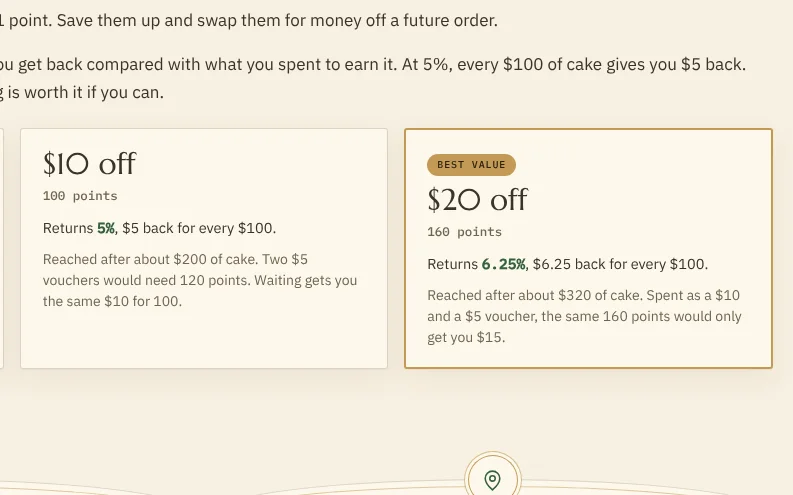
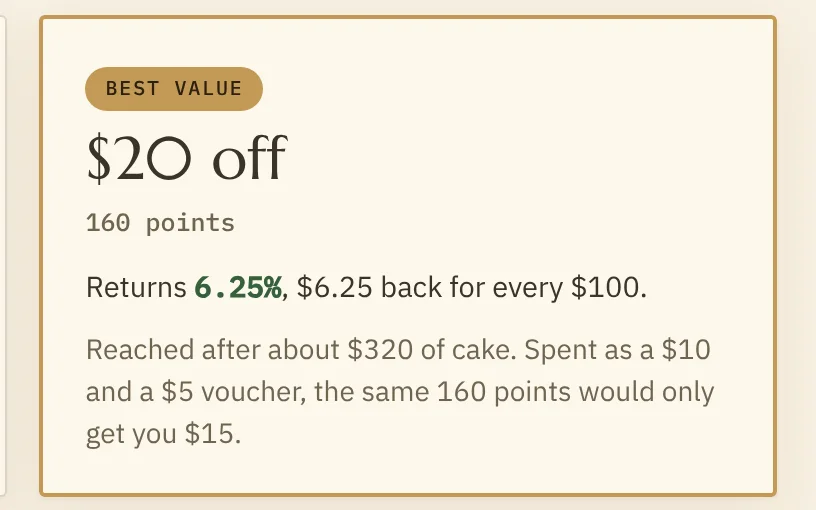
Images fade in across the site; new tab arrow on every external link; Four Leaves: page tour slides, mission style ordering steps, clearer points and apply crops, photo cards in limits, link to the current site
Claude-Session: https://claude.ai/code/session_01JZ9QioYk54YAD9SRwQrJkJ

Changed region(s): [[0.0, 0.0303, 0.9987, 1.0], [0.0908, 0.8182, 0.3026, 0.8788], [0.5448, 0.4545, 0.6356, 0.4848]]

diff --git a/src/styles/global.css b/src/styles/global.css
@@ -124,22 +124,20 @@ p { margin: 0; }
   *, *::before, *::after { animation: none !important; transition: none !important; }
 }
 
-/* Ghost loading: a soft shimmer fills an image's reserved space until it
-   arrives, then the image fades in. Space is reserved by width and height
-   attributes, so nothing jumps while loading. */
-img.is-loading {
-  background: linear-gradient(100deg, var(--surface-2) 30%, var(--surface) 50%, var(--surface-2) 70%) 0 0 / 300% 100%;
-  animation: shimmer 1.4s linear infinite;
-}
-img.is-loaded { animation: img-in 0.45s ease-out; }
-@keyframes shimmer { from { background-position: 100% 0; } to { background-position: 0 0; } }
-@keyframes img-in { from { opacity: 0; } }
+/* Images fade in once fully loaded, instead of popping in or painting half
+   way. Space is reserved by width and height attributes, so nothing jumps. */
+.img-fade img { opacity: 0; transition: opacity 0.6s ease-out; }
+.img-fade img.is-loaded { opacity: 1; }
 
 /* Feature rows: the framed video first at full width, so the prototype can be
    seen clearly, then the points it shows underneath. */
 .feature-row { display: grid; grid-template-columns: minmax(0, 1fr); gap: var(--space-3); margin-top: var(--space-3); }
 .feature-row > :first-child { order: 2; }
 .feature-row > figure { margin: 0; }
+
+/* Every link that opens a new tab carries the same small arrow, so people know before they click. */
+a[target='_blank']:not(.o-cta)::after { content: '\2197' / ''; display: inline-block; margin-left: 0.3em; color: var(--accent); transition: transform 0.2s; }
+a[target='_blank']:not(.o-cta):hover::after { transform: translate(2px, -2px); }
 
 ::selection { background: var(--accent); color: var(--on-accent); }
 

diff --git a/src/styles/case-study.css b/src/styles/case-study.css
@@ -25,10 +25,9 @@
 /* Plain reading links, such as further reading lists. */
 .cs-content .links { list-style: none; margin: var(--space-2) 0 0; padding: 0; display: grid; gap: var(--space-1); }
 .cs-content .links a { display: inline-flex; align-items: center; min-height: 44px; gap: 8px; color: var(--text); font-weight: 500; text-decoration: none; transition: color 0.2s; }
-.cs-content .links a::after { content: '\2197' / ''; color: var(--accent); transition: transform 0.2s; }
-/* The arrow already says "opens elsewhere", so the text stays clean; hover and focus change colour and nudge the arrow. */
+/* The new tab arrow comes from the global rule; the flex gap spaces it here. Hover changes the colour. */
+.cs-content .links a::after { margin-left: 0; }
 .cs-content .links a:hover { color: var(--accent); }
-.cs-content .links a:hover::after { transform: translate(2px, -2px); }
 
 @media (max-width: 1000px) {
   .cs-content .sec { scroll-margin-top: 72px; }
